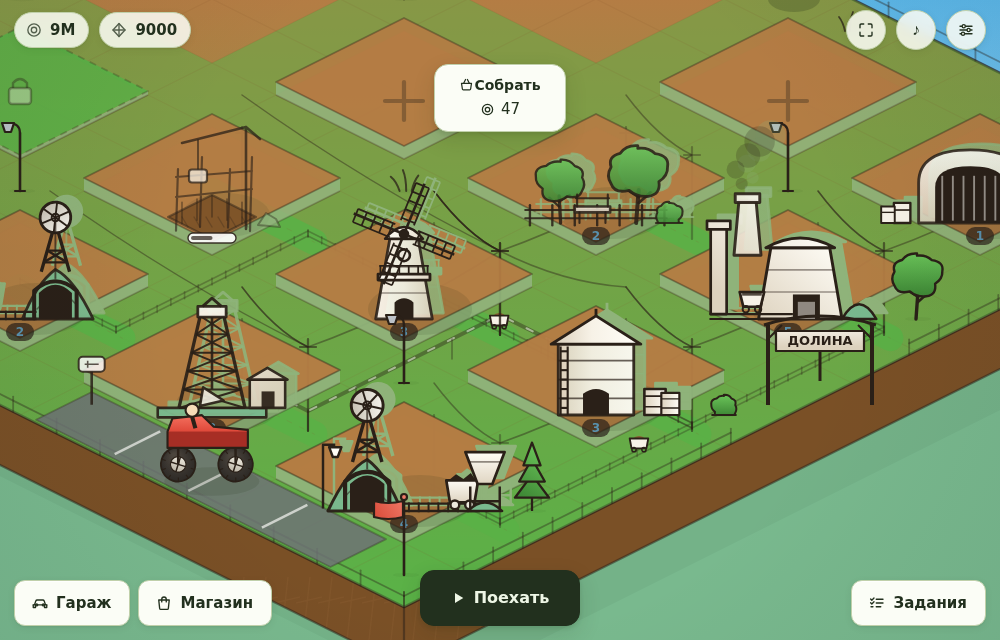
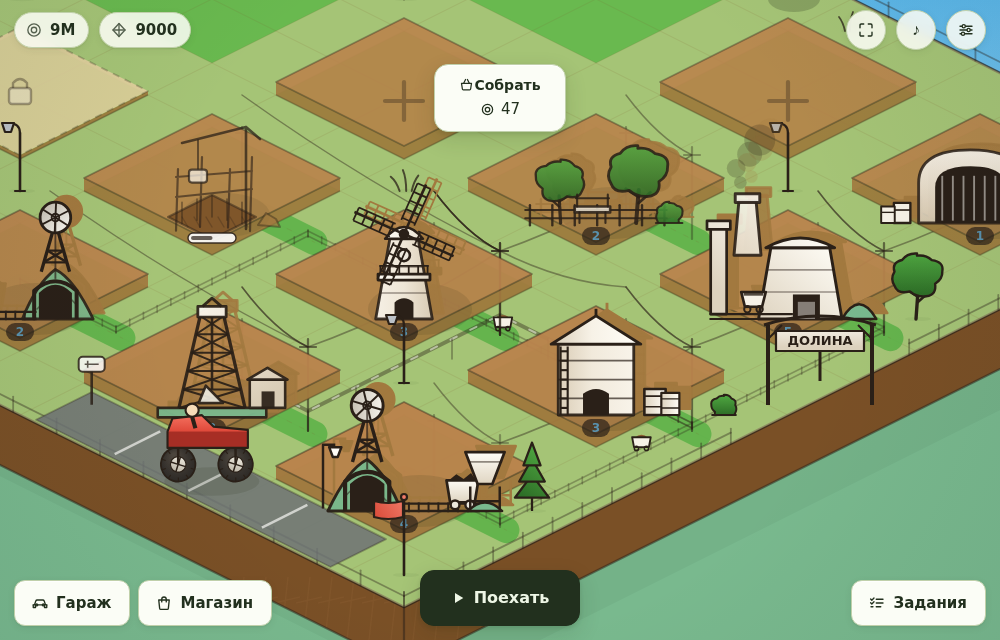
Долина в цветной теме: трава, тропинки и земляные площадки
Смотрел игру свежим взглядом и увидел то, что раньше не бросалось:
в цветной теме база читалась шахматкой. Причина — плита, дорожки и
площадки брали два одних и тех же тона: дороги красились цветом травы,
а площадки цветом грунта, и всё вместе выглядело клетчатым полем.

Теперь у долины три отдельных тона: луг на плите, натоптанная светлая
земля на дорожках между участками и тёмная земляная площадка под
постройкой. Стало видно, что это долина с тропинками, а не поле в
клетку.

Тихие темы не изменились: новые тона берутся с запасными значениями,
и там всё рисуется ровно как раньше.

Заодно обновлён снимок базы на странице проекта.

Claude-Session: https://claude.ai/code/session_01F2QN8UidkQ2bVQ3gM1nSe5

diff --git a/js/base.js b/js/base.js
@@ -658,10 +658,11 @@ window.HC = window.HC || {};
       g.globalAlpha = 1;
       g.restore();
 
+      // верх плиты: в цветной теме это луг, в тихих — та же земля, что была
       var tg = g.createLinearGradient(0, n.y, 0, s.y);
-      tg.addColorStop(0, P.groundDeep || P.ground);
-      tg.addColorStop(0.4, P.ground);
-      tg.addColorStop(1, P.groundTop || P.ground);
+      tg.addColorStop(0, P.plateDeep || P.groundDeep || P.ground);
+      tg.addColorStop(0.4, P.plate || P.ground);
+      tg.addColorStop(1, P.plate || P.groundTop || P.ground);
       g.fillStyle = tg;
       g.beginPath();
       g.moveTo(n.x, n.y); g.lineTo(e.x, e.y); g.lineTo(s.x, s.y); g.lineTo(w.x, w.y);
@@ -680,8 +681,9 @@ window.HC = window.HC || {};
     drawTiles: function (g, P) {
       var gx, gy, a, b, c, d;
       g.save();
-      g.fillStyle = P.groundTop || P.ground;
-      g.globalAlpha = 0.5;
+      // дорожки между участками: натоптанная земля, а не другой оттенок травы
+      g.fillStyle = P.path || P.groundTop || P.ground;
+      g.globalAlpha = P.path ? 0.5 : 0.5;
       g.beginPath();
       for (gx = 0; gx < COLS; gx++) {
         for (gy = 0; gy < ROWSN; gy++) {
@@ -738,7 +740,7 @@ window.HC = window.HC || {};
         g.moveTo(b.x, b.y); g.lineTo(c.x, c.y); g.lineTo(d.x, d.y);
         g.stroke();
         g.globalAlpha = 1 - s.fade * 0.6;
-        g.fillStyle = open ? P.ground : (P.groundTop || P.ground);
+        g.fillStyle = open ? (P.pad || P.ground) : (P.path || P.groundTop || P.ground);
         g.beginPath();
         g.moveTo(a.x, a.y - lift); g.lineTo(b.x, b.y - lift); g.lineTo(c.x, c.y - lift); g.lineTo(d.x, d.y - lift);
         g.closePath(); g.fill();

diff --git a/js/main.js b/js/main.js
@@ -28,8 +28,10 @@ window.HC = window.HC || {};
       wood: '#9c6b3f', woodHi: '#ba8452', woodDeep: '#6d4826',
       bone: '#efe6d6', metal: '#bcc1c7', panel: '#f4f0e8',
       shadow: 'rgba(30,40,20,0.24)', vignette: 'rgba(20,50,70,0.10)',
-      fore: '#2f6b2c', panelSolid: '#ffffff', sideFace: '#8fb37a',
-      road: '#6e7276', roadLine: '#f7f6f2'
+      fore: '#2f6b2c', panelSolid: '#ffffff', sideFace: '#a2793f',
+      road: '#6e7276', roadLine: '#f7f6f2',
+      // долина: трава, натоптанные дорожки и земляные площадки под постройки
+      plate: '#69b94f', plateDeep: '#4b9a38', path: '#e2cf9e', pad: '#b9834c'
     },
     paper: {
       sky0: '#f4f2ee', sky1: '#e2dfd8',
